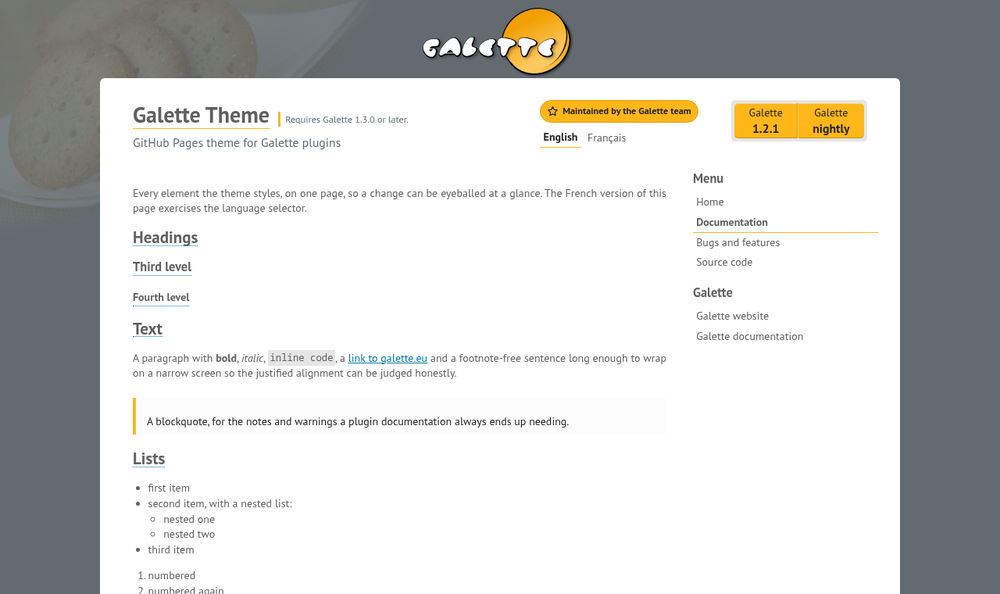
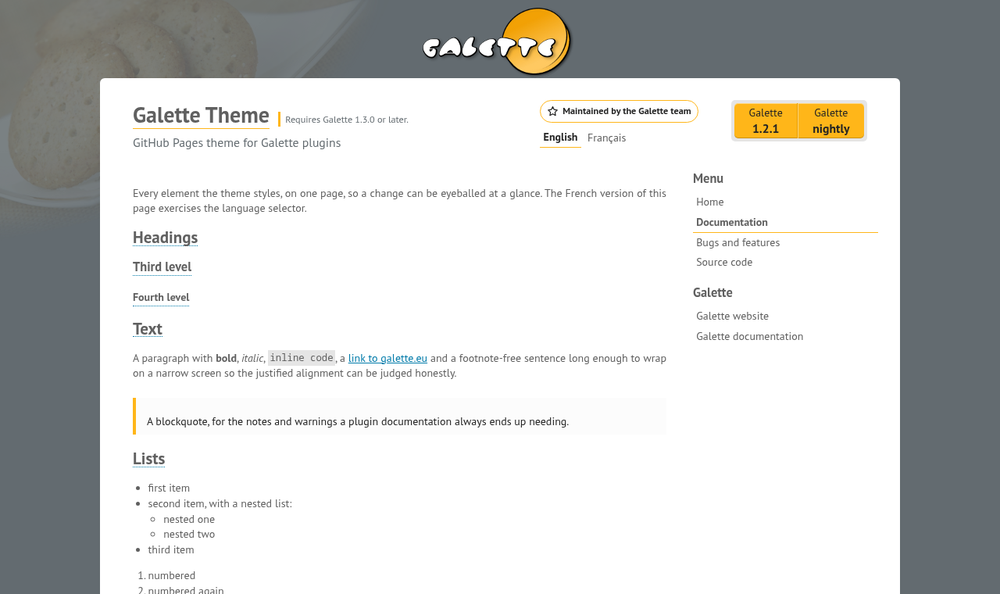
Distinguish the community pill by a grey outline
The pill lost its background, so the two variants were down to their icon
alone. The outline carries the distinction again: Galette orange for the core
team, grey for a community plugin, with the text and the icon keeping the
page's own contrast.

Thumbnail regenerated.

Changed region(s): [[0.527, 0.1515, 0.713, 0.2121]]

diff --git a/_sass/galette/_layout.scss b/_sass/galette/_layout.scss
@@ -109,11 +109,9 @@ section#content {
     margin-top: 1.5em;
 }
 
-/** Maintainer pill. Core and community share these colours: only the icon
-    distinguishes them, which is what the review asked for.
-
-    Galette orange never carries text on white: it stays a background here, with
-    the dark grey on top, which keeps the contrast ratio comfortable. */
+/** Maintainer pill. No background, so the text keeps the page's own contrast;
+    the icon and the border colour carry the distinction — Galette orange for the
+    core team, grey for a community plugin. */
 .maintainer {
     display: inline-flex;
     align-items: center;
@@ -123,9 +121,12 @@ section#content {
     padding: .3em .7em;
     border-radius: 999px;
     white-space: nowrap;
-    background: $galette-orange;
     color: $galette-dark-grey;
-    border: 1px solid $galette-dark-orange;
+    border: 1px solid $galette-orange;
+
+    &.maintainer-community {
+        border-color: $galette-grey;
+    }
 
     .maintainer-icon {
         width: 15px;

diff --git a/README.md b/README.md
@@ -12,8 +12,8 @@ or [use it today](#usage).*
 It carries the same identity as galette.eu — PT Sans, the orange `#ffb619`, the
 blue `#007baa`, the grey band behind the logo, the sidebar menu and the orange
 download cartouche — and it states on every page whether the plugin is
-maintained by the Galette team or by a community member, with one pill whose icon
-carries the distinction.
+maintained by the Galette team or by a community member, with a pill whose icon
+and outline carry the distinction.
 
 ## Usage
 
@@ -47,7 +47,7 @@ break the moment it went private.
 | --- | --- | --- |
 | `title` | yes | Plugin name, shown as the page heading |
 | `description` | yes | Tagline under the heading, and the meta description. A page may override it with its own `description` front matter — that is how a translated page gets a translated tagline. |
-| `maintainer` | yes | `core` shows a “Maintained by the Galette team” pill with an outlined star, `community` a “Community plugin” one with a group icon. Same colours: only the icon differs. Anything else is treated as `community`. |
+| `maintainer` | yes | `core` shows a “Maintained by the Galette team” pill outlined in Galette orange with an outlined star, `community` a “Community plugin” one outlined in grey with a group icon. Anything else is treated as `community`. |
 | `tracker_url` | no | Bug tracker in the menu, defaults to the repository's GitHub issues |
 | `default_lang` | no | Language the menu falls back to when a page has no translation, defaults to `en` |
 | `author` | no | Name in the copyright line, defaults to Johan Cwiklinski |

diff --git a/index.md b/index.md
@@ -38,7 +38,7 @@ a local `_layouts/default.html` would shadow the theme's.
 | --- | --- | --- |
 | `title` | yes | Plugin name, shown as the page heading |
 | `description` | yes | Tagline under the heading, and the meta description. A page may override it with its own `description` front matter — that is how a translated page gets a translated tagline. |
-| `maintainer` | yes | `core` shows a “Maintained by the Galette team” pill with an outlined star, `community` a “Community plugin” one with a group icon. Same colours: only the icon differs. Anything else is treated as `community`. |
+| `maintainer` | yes | `core` shows a “Maintained by the Galette team” pill outlined in Galette orange with an outlined star, `community` a “Community plugin” one outlined in grey with a group icon. Anything else is treated as `community`. |
 | `tracker_url` | no | Bug tracker in the menu, defaults to the repository's GitHub issues |
 | `default_lang` | no | Language the menu falls back to when a page has no translation, defaults to `en` |
 | `author` | no | Name in the copyright line, defaults to Johan Cwiklinski |
